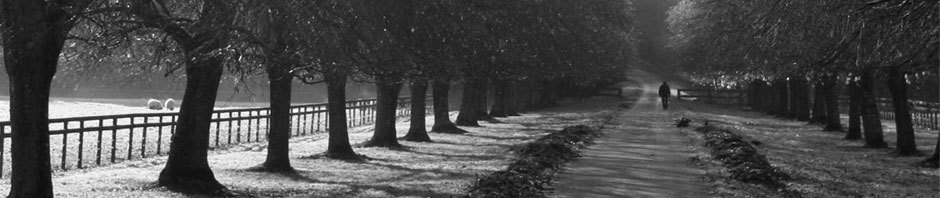
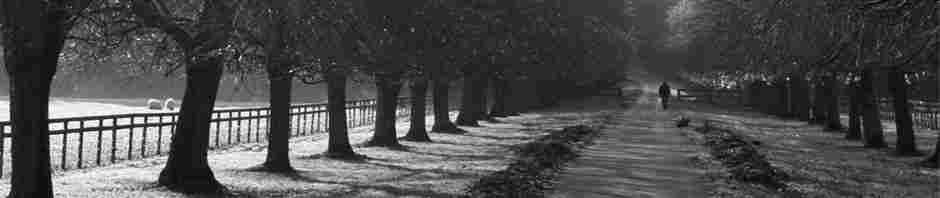
update project page;compress bg-img

diff --git a/projects/index.html b/projects/index.html
@@ -4,6 +4,21 @@ title: Projects
 ---
 <div class="container">
   <ul class="timeline">
+    <li><div class="tl-date">Now</div></li>
+    <li>
+      <div class="tl-circ"></div>
+      <div class="tl-panel animated fadeIn animate-delay">
+        <div class="tl-header">
+          <h3>MonMon</h3>
+          <p><small class="text-muted"><i class="glyphicon glyphicon-hand-right"></i> Node.js, JavaScript</small></p>
+        </div>
+        <div class="tl-body">
+          <p>A project started in a hackathon and further furnished in consective hackathons :).</p>
+          <p>it is a real-time video commenting(Danmaku) platform where users can make comments on videos retrived from Youtube. This is essentially recreating the video because comment on top the video make the video much more interesting to watch. Similar website already exist but they are mostly targeting at videos in youku or tudou. We thought why not brought the idea of commenting on top of video to Youtube? And then we have what we see now.</p>
+          <p>View the website @<a href="http://monmon-danmaku.rhcloud.com/">MonMon</a></p>
+        </div>
+      </div>
+    </li>
     <li><div class="tl-date">Jan, 2015</div></li>
     <li class="tl-inverted">
       <div class="tl-circ"></div>

diff --git a/_layouts/base.html b/_layouts/base.html
@@ -5,7 +5,7 @@
   <meta name="viewport" content="width=device-width, initial-scale=1.0">
   <meta name="description" content="Personal blog of junchao. It is mainly to share with others 
        about the experience in programming.">
-  <meta name="keywords" content="junchao, blog, programming, gu junchao, franklingu">
+  <meta name="keywords" content="junchao, blog, gu junchao, franklingu">
   <meta name="author" content="junchao">
   <link rel="stylesheet" href="/lib/bootstrap/dist/css/bootstrap.min.css" type="text/css"/>
   <link rel="stylesheet" href="/lib/bootstrap/dist/css/bootstrap-theme.min.css" type="text/css"/>

diff --git a/css/style.css b/css/style.css
@@ -89,7 +89,7 @@ a {
     margin-top: 30px;
     border: 1px solid #74C7CD;
     border-radius: 7px;
-    box-shadow: 0 1px 6px rgba(0, 0, 0, 0.15);
+    box-shadow: 0 2px 10px rgba(0, 0, 0, 0.15);
 }
 
 .experience-box-left {
